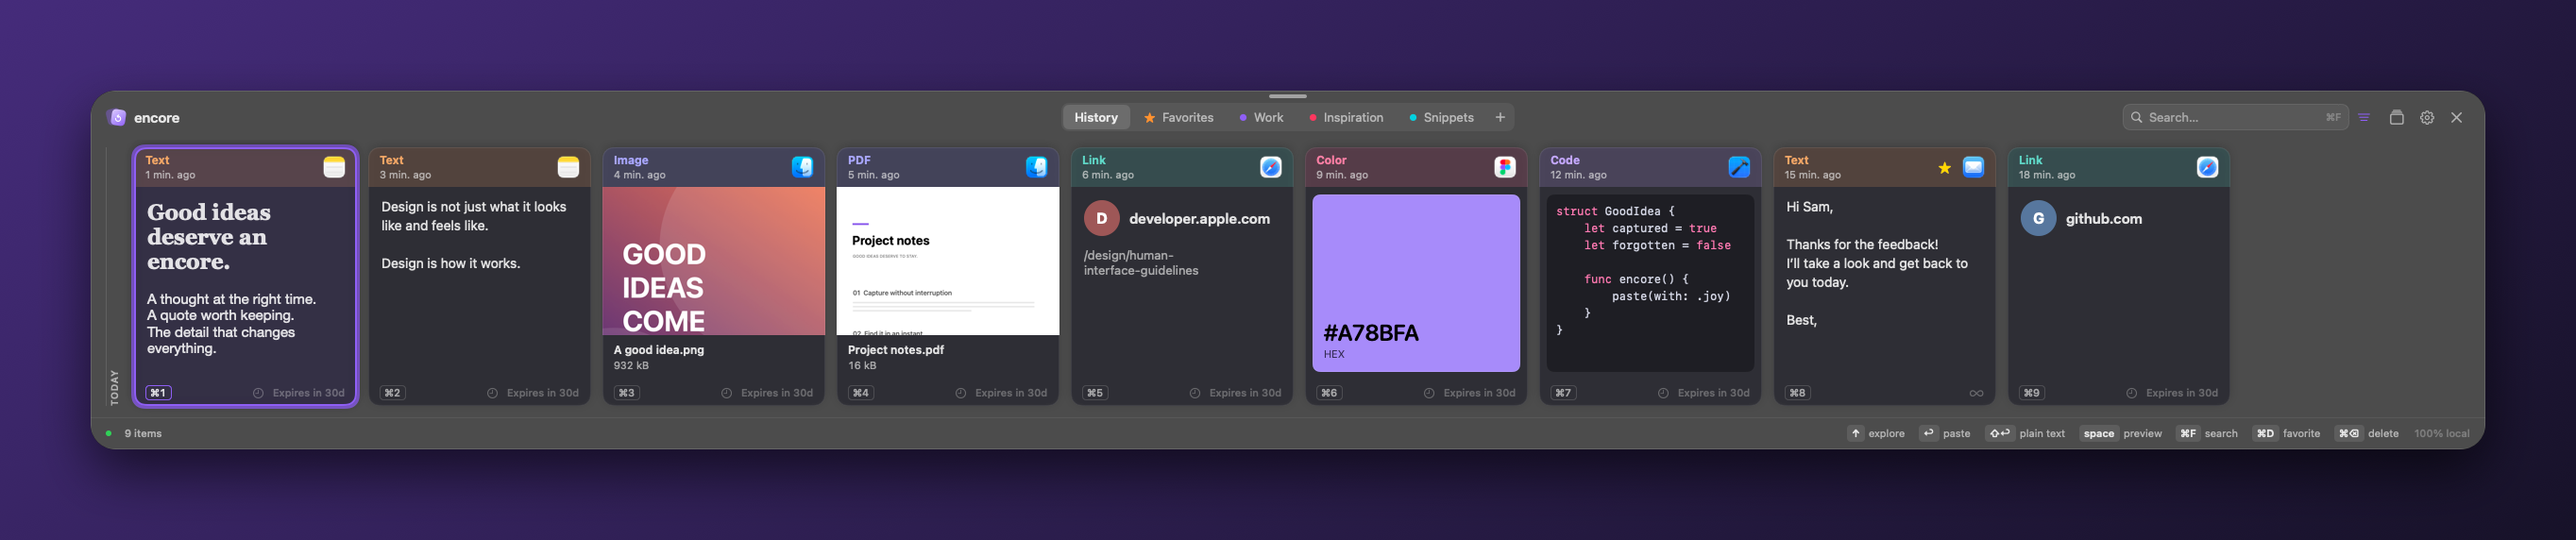
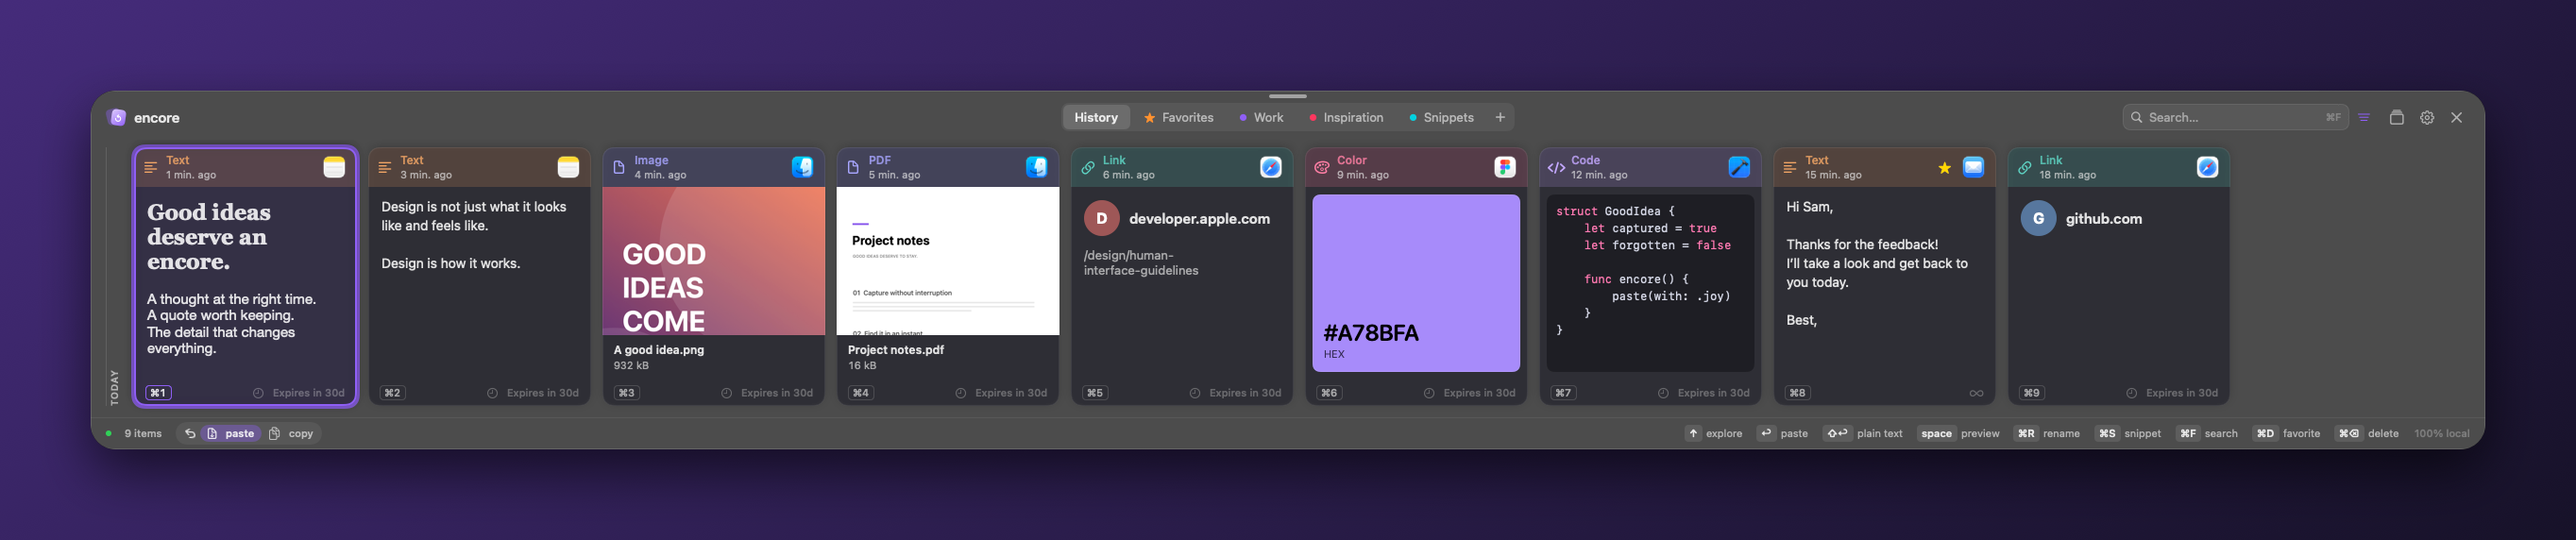
Release 0.5.0 with snippets and sync, and refresh the README and its captures

diff --git a/README.md b/README.md
@@ -23,16 +23,25 @@ Your latest copies sit in a shelf at the bottom of the screen, newest first. Eac
 
 Press **↑** and the shelf grows into a full library: every copy grouped by day, filters by type, app and date, and a large preview with when it was first and last copied. Just start typing to search, including the text inside your images, recognized on your Mac. Hold **↓** to come back.
 
+## Snippets, ready when you are
+
+![Filing a card as a snippet with ⌘S](assets/snippet-editor.png)
+
+Press **⌘S** on any card to make it a snippet: give it a name, pick its language among 85 (encore guesses it for you, with the icons you know from VS Code), and add tags. Snippets get their own board, grouped by language or tag, and never expire. **⌘R**, or a click on a card's header, renames it in place.
+
+Write `{{name}}` in a snippet and encore asks for the value before pasting. `{{clipboard}}`, `{{date}}` and `{{cursor}}` fill in by themselves. Find snippets with `tag:` and `lang:`, and export or import them as a readable JSON file.
+
 ## Built to keep only what matters
 
-- **Favorites and collections** keep snippets, addresses and templates forever, and you can drag cards into them.
+- **Favorites and collections** keep addresses and templates forever, and you can drag cards into them.
+- **Paste or copy:** a switch in the footer chooses what Return and double-click do. In copy mode, the card goes back to the top, ready for ⌘V.
 - **Retention rules** by size and type clean up the heavy stuff on their own. Every card tells you how long it stays.
 - **Exclusions** keep password managers out, and content that apps mark as confidential is skipped.
 - **A paste queue** pastes several items in order, one ⌘V at a time.
 
 ## Your other Macs, without a cloud
 
-Pair two Macs on the same network with a 6-digit code, and each one appears as a tab in the shelf. Browse the other Mac's recent copies and paste them as if they were yours. The connection is end-to-end encrypted, keys stay on each Mac, and there is no server or account involved.
+Pair two Macs on the same network with a 6-digit code, and each one appears as a tab in the shelf. Browse the other Mac's recent copies and paste them as if they were yours. Turn on sync and your favorites and snippets, each with its own setting, are merged and kept in step between your Macs. The connection is end-to-end encrypted, keys stay on each Mac, and there is no server or account involved.
 
 ## Native, down to the details
 
@@ -68,10 +77,11 @@ Quit any other clipboard app that uses ⇧⌘V. encore also lives in the menu ba
 | Search / preview | ⌘F or type / Space |
 | Switch board | ⌘← / ⌘→ |
 | Favorite / settings | ⌘D / ⌘, |
+| Make a snippet / rename | ⌘S / ⌘R |
 | Delete / undo | Delete / ⌘Z |
 | Card size | ⌘+ / ⌘− |
 
-Search understands `app:safari type:link`, `date:today`, `date:7d`, `date:30d`, and `after:2026-10-01 before:2026-11-01`. The optional global queue shortcut ⇧⌘C is off by default.
+Search understands `app:safari type:link`, `tag:mail`, `lang:swift`, `date:today`, `date:7d`, `date:30d`, and `after:2026-10-01 before:2026-11-01`. The optional global queue shortcut ⇧⌘C is off by default.
 
 ## Keep the useful things
 
@@ -85,7 +95,7 @@ Retention rules are evaluated from top to bottom, and the first match wins. The 
 | Text below 1 MB | Forever |
 | Everything else | Your default duration |
 
-Copying an item again renews its expiry. Favorites and collection items stay indefinitely. Changes are previewed before you apply them.
+Copying an item again renews its expiry. Favorites, snippets and collection items stay indefinitely. Changes are previewed before you apply them.
 
 Files are referenced rather than copied into encore, so a multi-gigabyte file uses little storage. Moving or deleting the original can make an entry unavailable. Embedded clipboard data is limited to **25 MiB per copy**.
 
@@ -95,8 +105,8 @@ History lives in `~/Library/Application Support/Encore/` and never leaves your M
 
 encore makes two kinds of network requests, both optional:
 
-- **Updates.** encore checks GitHub for a new release, and installs it only if it is signed with the project's key. You can turn this off in Settings.
-- **Other Macs.** Off until you enable it. Macs find each other on the local network with Bonjour and pair with a 6-digit code. Traffic is end-to-end encrypted, and the keys stay on each Mac in a file only your account can read, next to the history.
+- **Updates.** encore checks GitHub for a new release, and installs it only if it is signed with the project's key. Settings choose whether it installs on its own or asks first.
+- **Other Macs.** Off until you enable sharing or sync. Macs find each other on the local network with Bonjour and pair with a 6-digit code. Traffic is end-to-end encrypted, and the keys stay on each Mac in a file only your account can read, next to the history.
 
 Defaults are 30 days, 2,000 unprotected items, and a 500 MiB content budget. Password-manager exclusions depend on installed apps. Confidential clipboard markers are honored, but not every app sets them. Screenshot import is off by default.
 
@@ -114,6 +124,6 @@ open dist/Encore.app
 
 Use `open -n dist/Encore.app --args --demo` for a separate, synthetic library. Quit the normal instance first. Without the release certificate, the build script signs ad hoc.
 
-encore is independently implemented and includes no code or assets from other clipboard apps. The default sound sets are synthesized by `scripts/sounds.py`. The Soft, Crisp and Wood sets are adapted from [Kenney's Interface Sounds](https://kenney.nl/assets/interface-sounds), released under CC0.
+encore is independently implemented and includes no code or assets from other clipboard apps. The default sound sets are synthesized by `scripts/sounds.py`. The Soft, Crisp and Wood sets are adapted from [Kenney's Interface Sounds](https://kenney.nl/assets/interface-sounds), released under CC0. Language icons come from [Seti UI](https://github.com/jesseweed/seti-ui), MIT.
 
 [Contributing](CONTRIBUTING.md) · [Security](SECURITY.md) · [MIT license](LICENSE)

diff --git a/.github/RELEASE_NOTES.md b/.github/RELEASE_NOTES.md
@@ -1,15 +1,14 @@
-Native clipboard history for macOS 12+, now on Apple Silicon and Intel.
+Snippets, and favorites that follow you from Mac to Mac.
 
-- Intel Macs are supported: encore ships as a single universal app.
-- encore now runs on macOS 12 Monterey and 13 Ventura. Launch at login and Share need macOS 13.
-- Fixed a freeze when a rich-text email with tables was shown on a card.
-- The Space preview is larger and scrolls through long content.
-- Preview & edit shows rich text as laid out; Edit switches to plain text.
-- Paired Macs no longer ask for your login password after each update, and the app no longer freezes waiting for it: pairing keys moved from the Keychain to a private file. Existing pairings move over automatically, after one last prompt.
-- Arrow keys, the shelf and the library stay smooth on older Macs: a card now redraws only when it changes.
-- Holding an arrow key in the library keeps the selected card in view, and the first row no longer slides under the day title on opening.
-- Each opening of the shelf starts on the history.
-- The app name is now written encore everywhere.
+- **Snippets.** Press ⌘S on any card to give it a name, a language and tags. encore guesses the language among 85, with the icons you know from VS Code. Snippets get their own board and never expire.
+- **Placeholders.** `{{name}}` asks for a value before pasting; `{{clipboard}}`, `{{date}}` and `{{cursor}}` fill in by themselves. Search snippets with `tag:` and `lang:`, and export or import them as a readable JSON file.
+- **Rename in place.** ⌘R, or a click on a card's header, renames it right on the card.
+- **Paste or copy.** A switch in the footer, also in Settings, chooses what Return and double-click do. In copy mode, the card goes back to the top, ready for ⌘V.
+- **Sync with your paired Macs.** Favorites and snippets each have their own setting. They are merged, then kept in step over the local network: the latest change wins, and removals follow. Your history stays private unless you share it.
+- Updates are always checked; the setting now chooses whether they install on their own.
+- Settings for paired Macs are shorter and clearer, and the About window is centered.
+
+Sync needs encore 0.5 on both Macs.
 
 Download the ZIP, unzip, and move Encore.app to Applications. SHA256SUMS contains its checksum. Installed copies update themselves.
 
